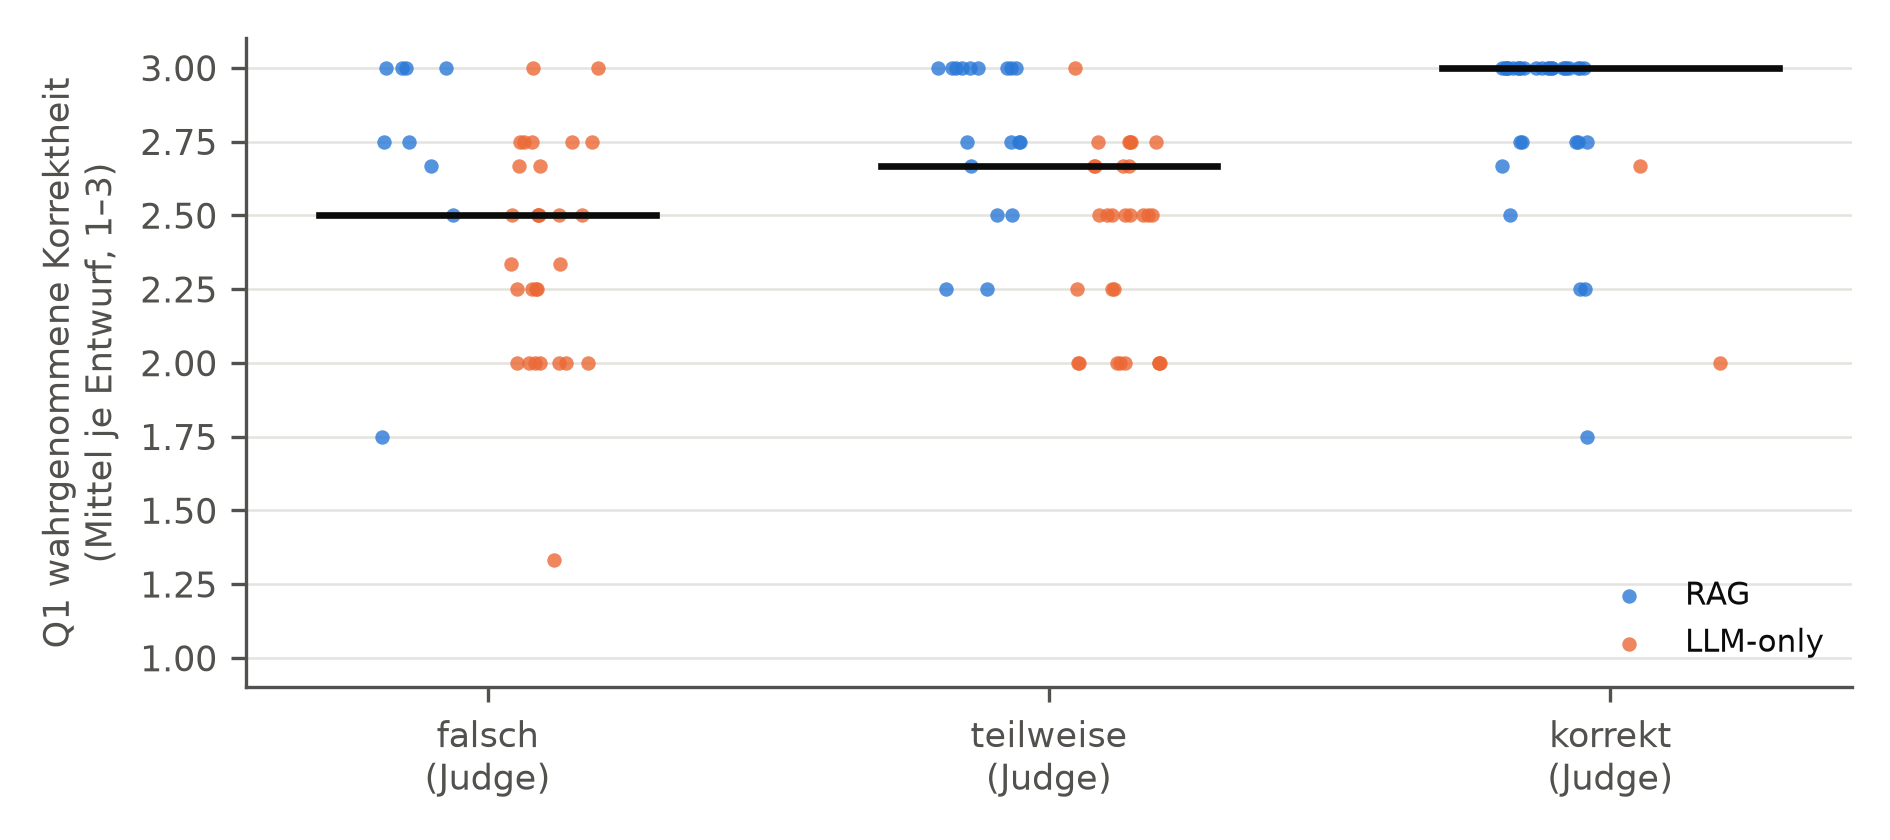
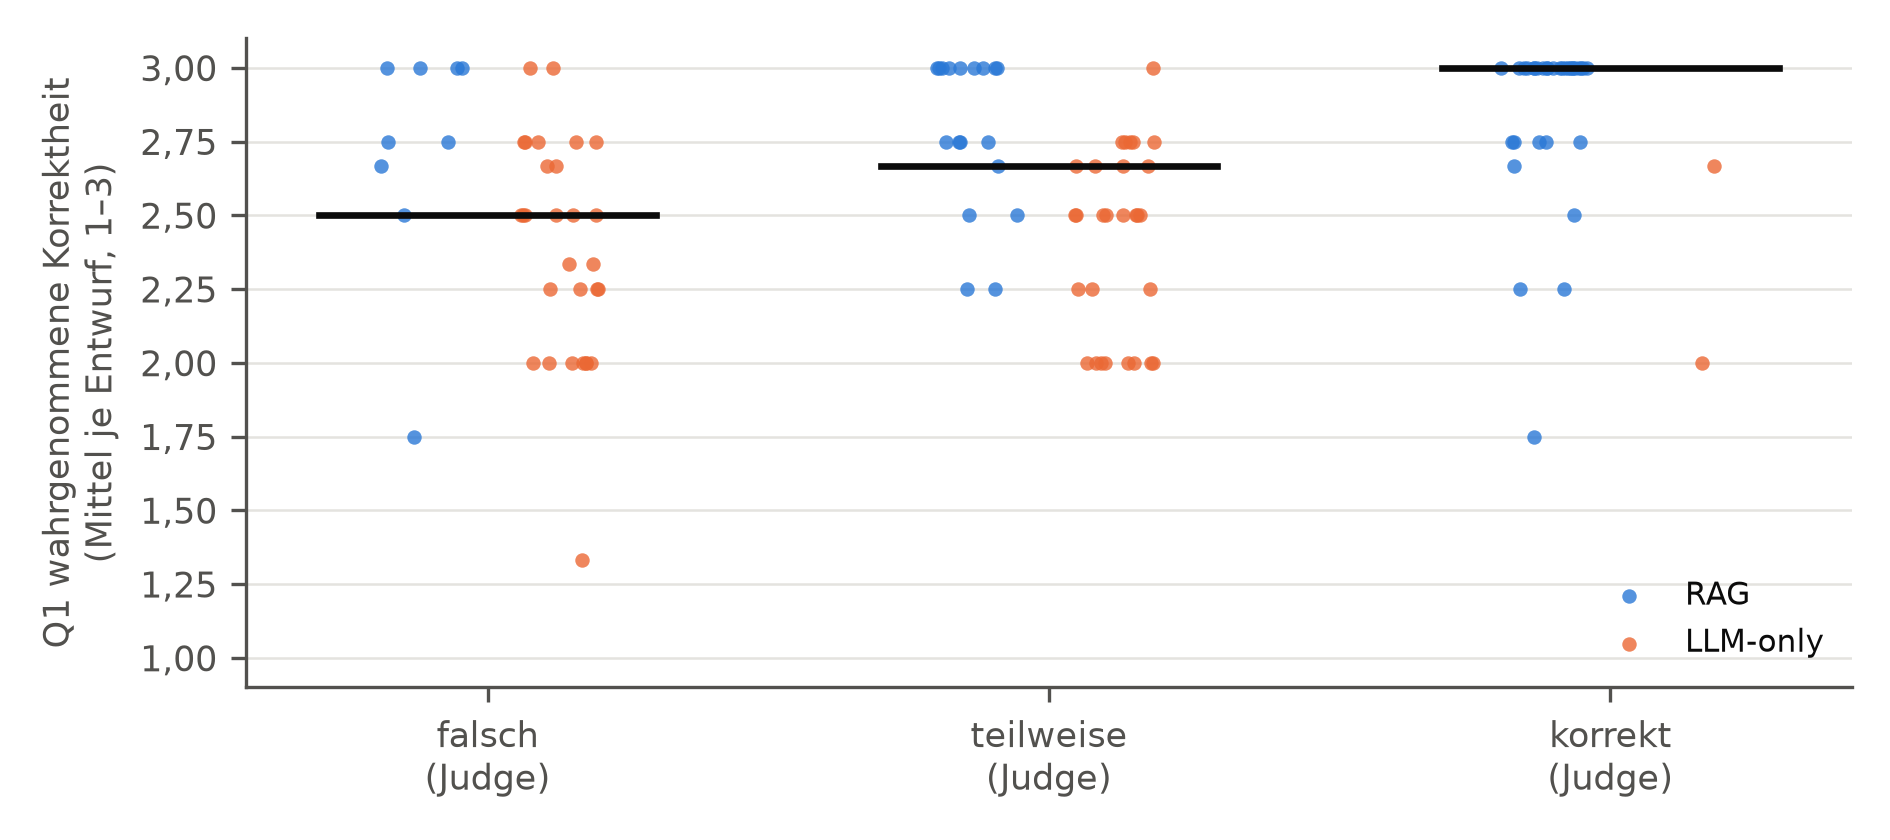
Add single-panel Q6 and mid-scenario tornado figures for EVI

diff --git a/auswertung/strang3.py b/auswertung/strang3.py
@@ -9,7 +9,8 @@ Ausgabe in auswertung/ergebnisse/strang3/:
 - bericht.md        Tabellen für das EVI
 - entwuerfe.csv     eine Zeile je bewertetem Entwurf: Anzahl Urteile, Mittelwerte Q1–Q6, Judge-Korrektheit
 - tests.csv         Kennwerte von H2 und H6, jeweils alle Bewertenden und Sensitivitätsanalyse (AW-07)
-- q6.png            Gesamtqualität je Entwurf und Bedingung, alle Bewertenden und Sensitivitätsanalyse
+- q6.png            Gesamtqualität je Entwurf und Bedingung, alle Bewertenden
+- q6_sensitivitaet.png  dasselbe neben der Sensitivitätsanalyse (AW-07)
 - h6.png            wahrgenommene Korrektheit (Q1) nach referenzbasierter Korrektheit des Judge
 - meta.json         Herkunft: Hashes, Git-Stand, Versionen
 
@@ -332,9 +333,7 @@ def abbildungen(ent, ent_s, tickets, tickets_s, judge, n_alle, n_ohne) -> list:
         for side in ("top", "right"):
             ax.spines[side].set_visible(False)
 
-    fig, axes = plt.subplots(1, 2, figsize=(6.3, 2.8), dpi=300, sharey=True)
-    for ax, (e, tt, titel) in zip(axes, ((ent, tickets, f"alle Bewertenden (n = {n_alle})"),
-                                          (ent_s, tickets_s, f"ohne Bearbeitungszeit < 5 min (n = {n_ohne})"))):
+    def q6_panel(ax, e, tt, titel):
         daten = [[e[(t, b)]["q6"] for t in tt] for b in BED]
         bp = ax.boxplot(daten, widths=0.5, patch_artist=True, showfliers=False,
                         medianprops={"color": TEXT, "linewidth": 1.4},
@@ -346,12 +345,25 @@ def abbildungen(ent, ent_s, tickets, tickets_s, judge, n_alle, n_ohne) -> list:
         for i, (b, vals) in enumerate(zip(BED, daten), start=1):
             ax.scatter([i + rng.uniform(-0.16, 0.16) for _ in vals], vals, s=9, color=FARBE[b], alpha=0.75, linewidths=0)
         ax.set_xticks([1, 2], [f"{NAME[b]}\n({len(tt)} Entwürfe)" for b in BED])
-        ax.set_title(titel, fontsize=9, color=TEXT, loc="left")
+        if titel:
+            ax.set_title(titel, fontsize=9, color=TEXT, loc="left")
         ax.set_ylim(0.8, 5.2)
+        ax.yaxis.set_major_formatter(matplotlib.ticker.FuncFormatter(lambda v, _: de(v, 1)))
         stil(ax)
-    axes[0].set_ylabel("Q6 Gesamtqualität, Mittel je Entwurf")
+
+    fig, ax = plt.subplots(figsize=(4.2, 2.8), dpi=300)
+    q6_panel(ax, ent, tickets, "")
+    ax.set_ylabel("Q6 Gesamtqualität,\nMittel je Entwurf")
     fig.tight_layout()
     fig.savefig(OUT / "q6.png", facecolor="white")
+    plt.close(fig)
+
+    fig, axes = plt.subplots(1, 2, figsize=(6.3, 2.8), dpi=300, sharey=True)
+    q6_panel(axes[0], ent, tickets, f"alle Bewertenden (n = {n_alle})")
+    q6_panel(axes[1], ent_s, tickets_s, f"ohne Bearbeitungszeit < 5 min (n = {n_ohne})")
+    axes[0].set_ylabel("Q6 Gesamtqualität, Mittel je Entwurf")
+    fig.tight_layout()
+    fig.savefig(OUT / "q6_sensitivitaet.png", facecolor="white")
     plt.close(fig)
 
     fig, ax = plt.subplots(figsize=(6.3, 2.8), dpi=300)
@@ -368,12 +380,13 @@ def abbildungen(ent, ent_s, tickets, tickets_s, judge, n_alle, n_ohne) -> list:
     ax.set_xticks(range(3), [f"{k}\n(Judge)" for k in KORREKTHEIT])
     ax.set_ylabel("Q1 wahrgenommene Korrektheit\n(Mittel je Entwurf, 1–3)")
     ax.set_ylim(0.9, 3.1)
+    ax.yaxis.set_major_formatter(matplotlib.ticker.FuncFormatter(lambda v, _: de(v, 2)))
     ax.legend(frameon=False, fontsize=7.5, loc="lower right")
     stil(ax)
     fig.tight_layout()
     fig.savefig(OUT / "h6.png", facecolor="white")
     plt.close(fig)
-    return ["q6.png", "h6.png"]
+    return ["q6.png", "q6_sensitivitaet.png", "h6.png"]
 
 
 if __name__ == "__main__":

diff --git a/auswertung/teilstudie_b.py b/auswertung/teilstudie_b.py
@@ -16,6 +16,7 @@ Ausgabe in auswertung/ergebnisse/teilstudie_b/:
 - sensitivitaet.csv   One-at-a-time-Variation ±20 % je Szenario
 - break_even.png      Nutzen und Kosten über dem Ticketvolumen je Szenario
 - tornado.png         Sensitivität des ROI je Szenario
+- tornado_mittel.png  dasselbe nur für das mittlere Szenario (kompakte Fassung)
 - meta.json           Herkunft: Eingabedatei mit Hash, Parameter, Git-Stand, Bibliotheksversionen
 """
 
@@ -436,7 +437,33 @@ def abbildungen(out: Path, werte_sz: dict, erg: dict, sens: dict) -> list:
     fig.tight_layout()
     fig.savefig(out / "tornado.png", facecolor="white")
     plt.close(fig)
-    return ["break_even.png", "tornado.png"]
+
+    # Tornado nur für das mittlere Szenario (kompakte Fassung für das EVI)
+    fig, ax = plt.subplots(figsize=(6.3, 2.9), dpi=300)
+    rows = sorted(sens["mittel"], key=lambda s: -s["spannweite"])
+    basis = erg["mittel"]["roi"] * 100
+    y = np.arange(len(rows))[::-1]
+    for yi, s in zip(y, rows):
+        lo, hi = s["roi_minus"] * 100, s["roi_plus"] * 100
+        ax.barh(yi + 0.17, lo - basis, left=basis, height=0.32, color=FARBE_MINUS,
+                label="Parameter −20 %" if yi == y[0] else None)
+        ax.barh(yi - 0.17, hi - basis, left=basis, height=0.32, color=FARBE_PLUS,
+                label="Parameter +20 %" if yi == y[0] else None)
+    ax.axvline(basis, color=TEXT, lw=0.9)
+    ax.set_yticks(y, [s["name"] for s in rows], fontsize=7.5)
+    ax.xaxis.grid(True, color=GRID, linewidth=0.6)
+    ax.set_axisbelow(True)
+    for side in ("top", "right", "left"):
+        ax.spines[side].set_visible(False)
+    ax.tick_params(axis="y", length=0)
+    ax.xaxis.set_major_locator(matplotlib.ticker.MaxNLocator(nbins=6, steps=[1, 2, 5, 10]))
+    ax.xaxis.set_major_formatter(matplotlib.ticker.FuncFormatter(lambda v, _: f"{de(v, 0)} %"))
+    ax.set_xlabel(f"modellierter ROI im mittleren Szenario (Basis {de(basis, 0)} %)")
+    ax.legend(loc="lower right", frameon=False, fontsize=7.5)
+    fig.tight_layout()
+    fig.savefig(out / "tornado_mittel.png", facecolor="white")
+    plt.close(fig)
+    return ["break_even.png", "tornado.png", "tornado_mittel.png"]
 
 
 # --------------------------------------------------------------------------- Hauptprogramm

diff --git a/auswertung/ergebnisse/teilstudie_b/bericht.md b/auswertung/ergebnisse/teilstudie_b/bericht.md
@@ -1,6 +1,6 @@
 # Teilstudie B: ROI/TCO-Modell
 
-Erzeugt mit `auswertung/teilstudie_b.py` am 2026-10-21. **Alle Werte sind Modellergebnisse und keine empirischen Messwerte** (DEMI 1.5). Gemessen sind nur die variablen Kosten je Ticket und für die Schwelle RAG gegenüber LLM-only die Latenzdifferenz (Strang 1); alle übrigen Eingangsgrößen sind Sekundärdaten oder Annahmen. Beträge netto, je Monat.
+Erzeugt mit `auswertung/teilstudie_b.py` am 2026-10-26. **Alle Werte sind Modellergebnisse und keine empirischen Messwerte** (DEMI 1.5). Gemessen sind nur die variablen Kosten je Ticket und für die Schwelle RAG gegenüber LLM-only die Latenzdifferenz (Strang 1); alle übrigen Eingangsgrößen sind Sekundärdaten oder Annahmen. Beträge netto, je Monat.
 
 ## Eingangsgrößen
 
@@ -108,3 +108,5 @@ Szenario mittel im Einzelnen:
 ![break_even.png](break_even.png)
 
 ![tornado.png](tornado.png)
+
+![tornado_mittel.png](tornado_mittel.png)

diff --git a/auswertung/ergebnisse/strang3/bericht.md b/auswertung/ergebnisse/strang3/bericht.md
@@ -126,4 +126,5 @@ Q6 je Entwurf, Median nach Bedingung; Paarvergleich der Mittelwerte.
 | Kategorie: Zahlung | 15 | 4,75 | 3,50 | 12 / 1 / 2 |
 
 ![q6.png](q6.png)
+![q6_sensitivitaet.png](q6_sensitivitaet.png)
 ![h6.png](h6.png)
